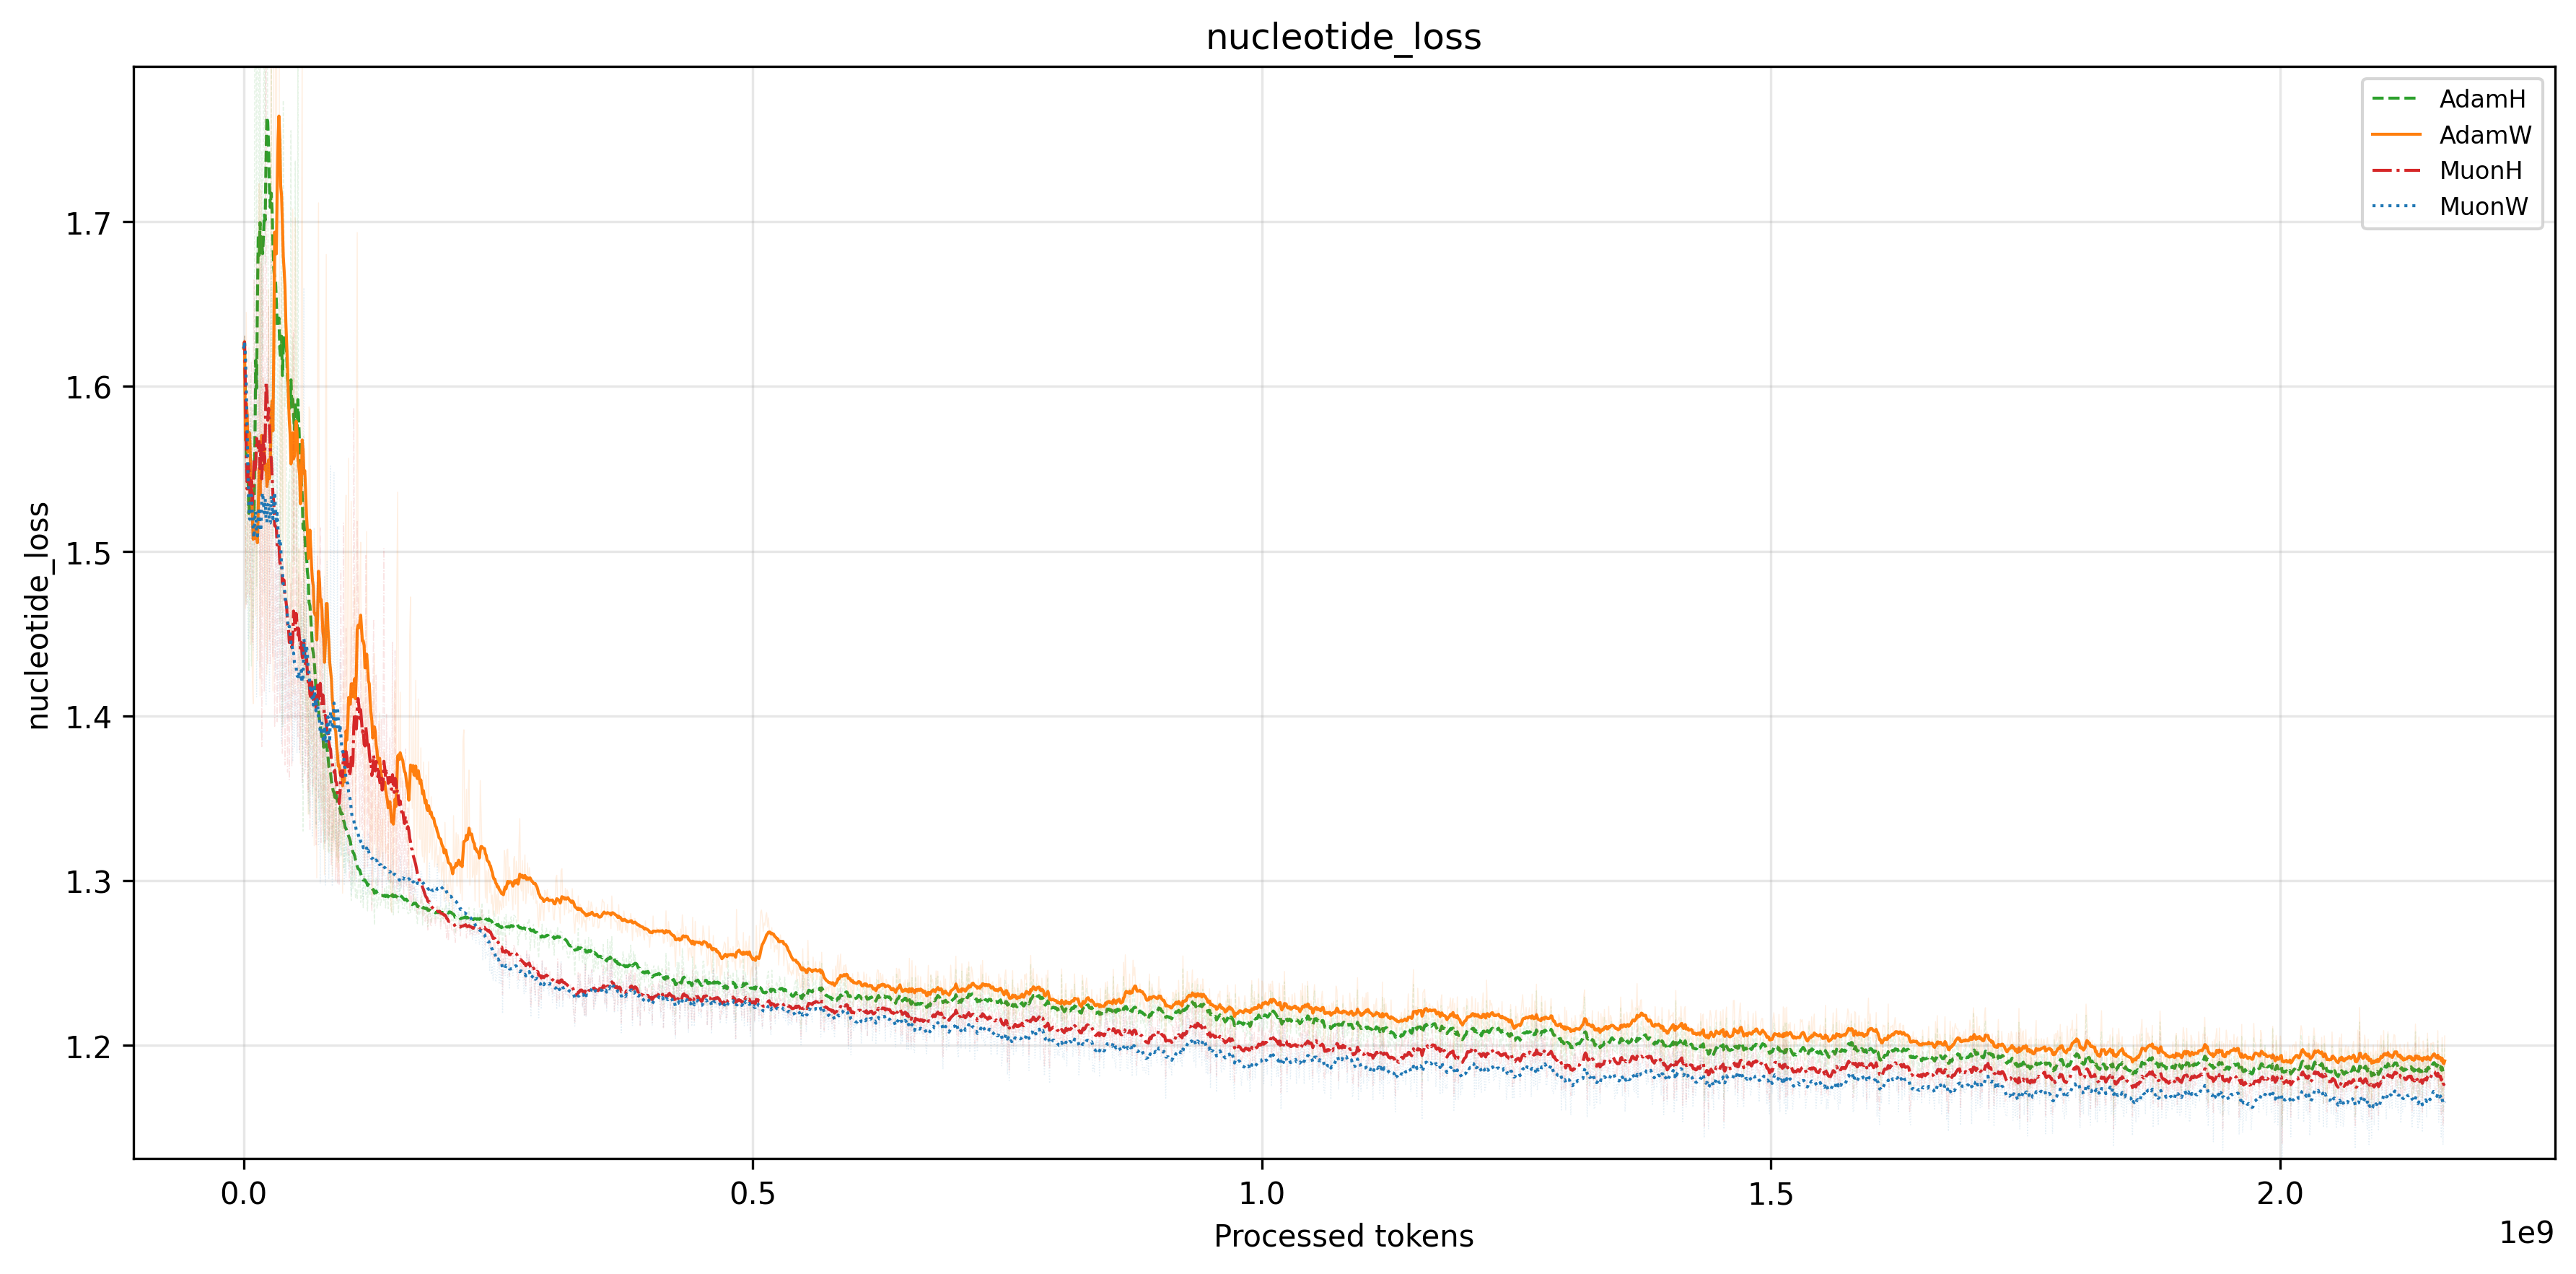
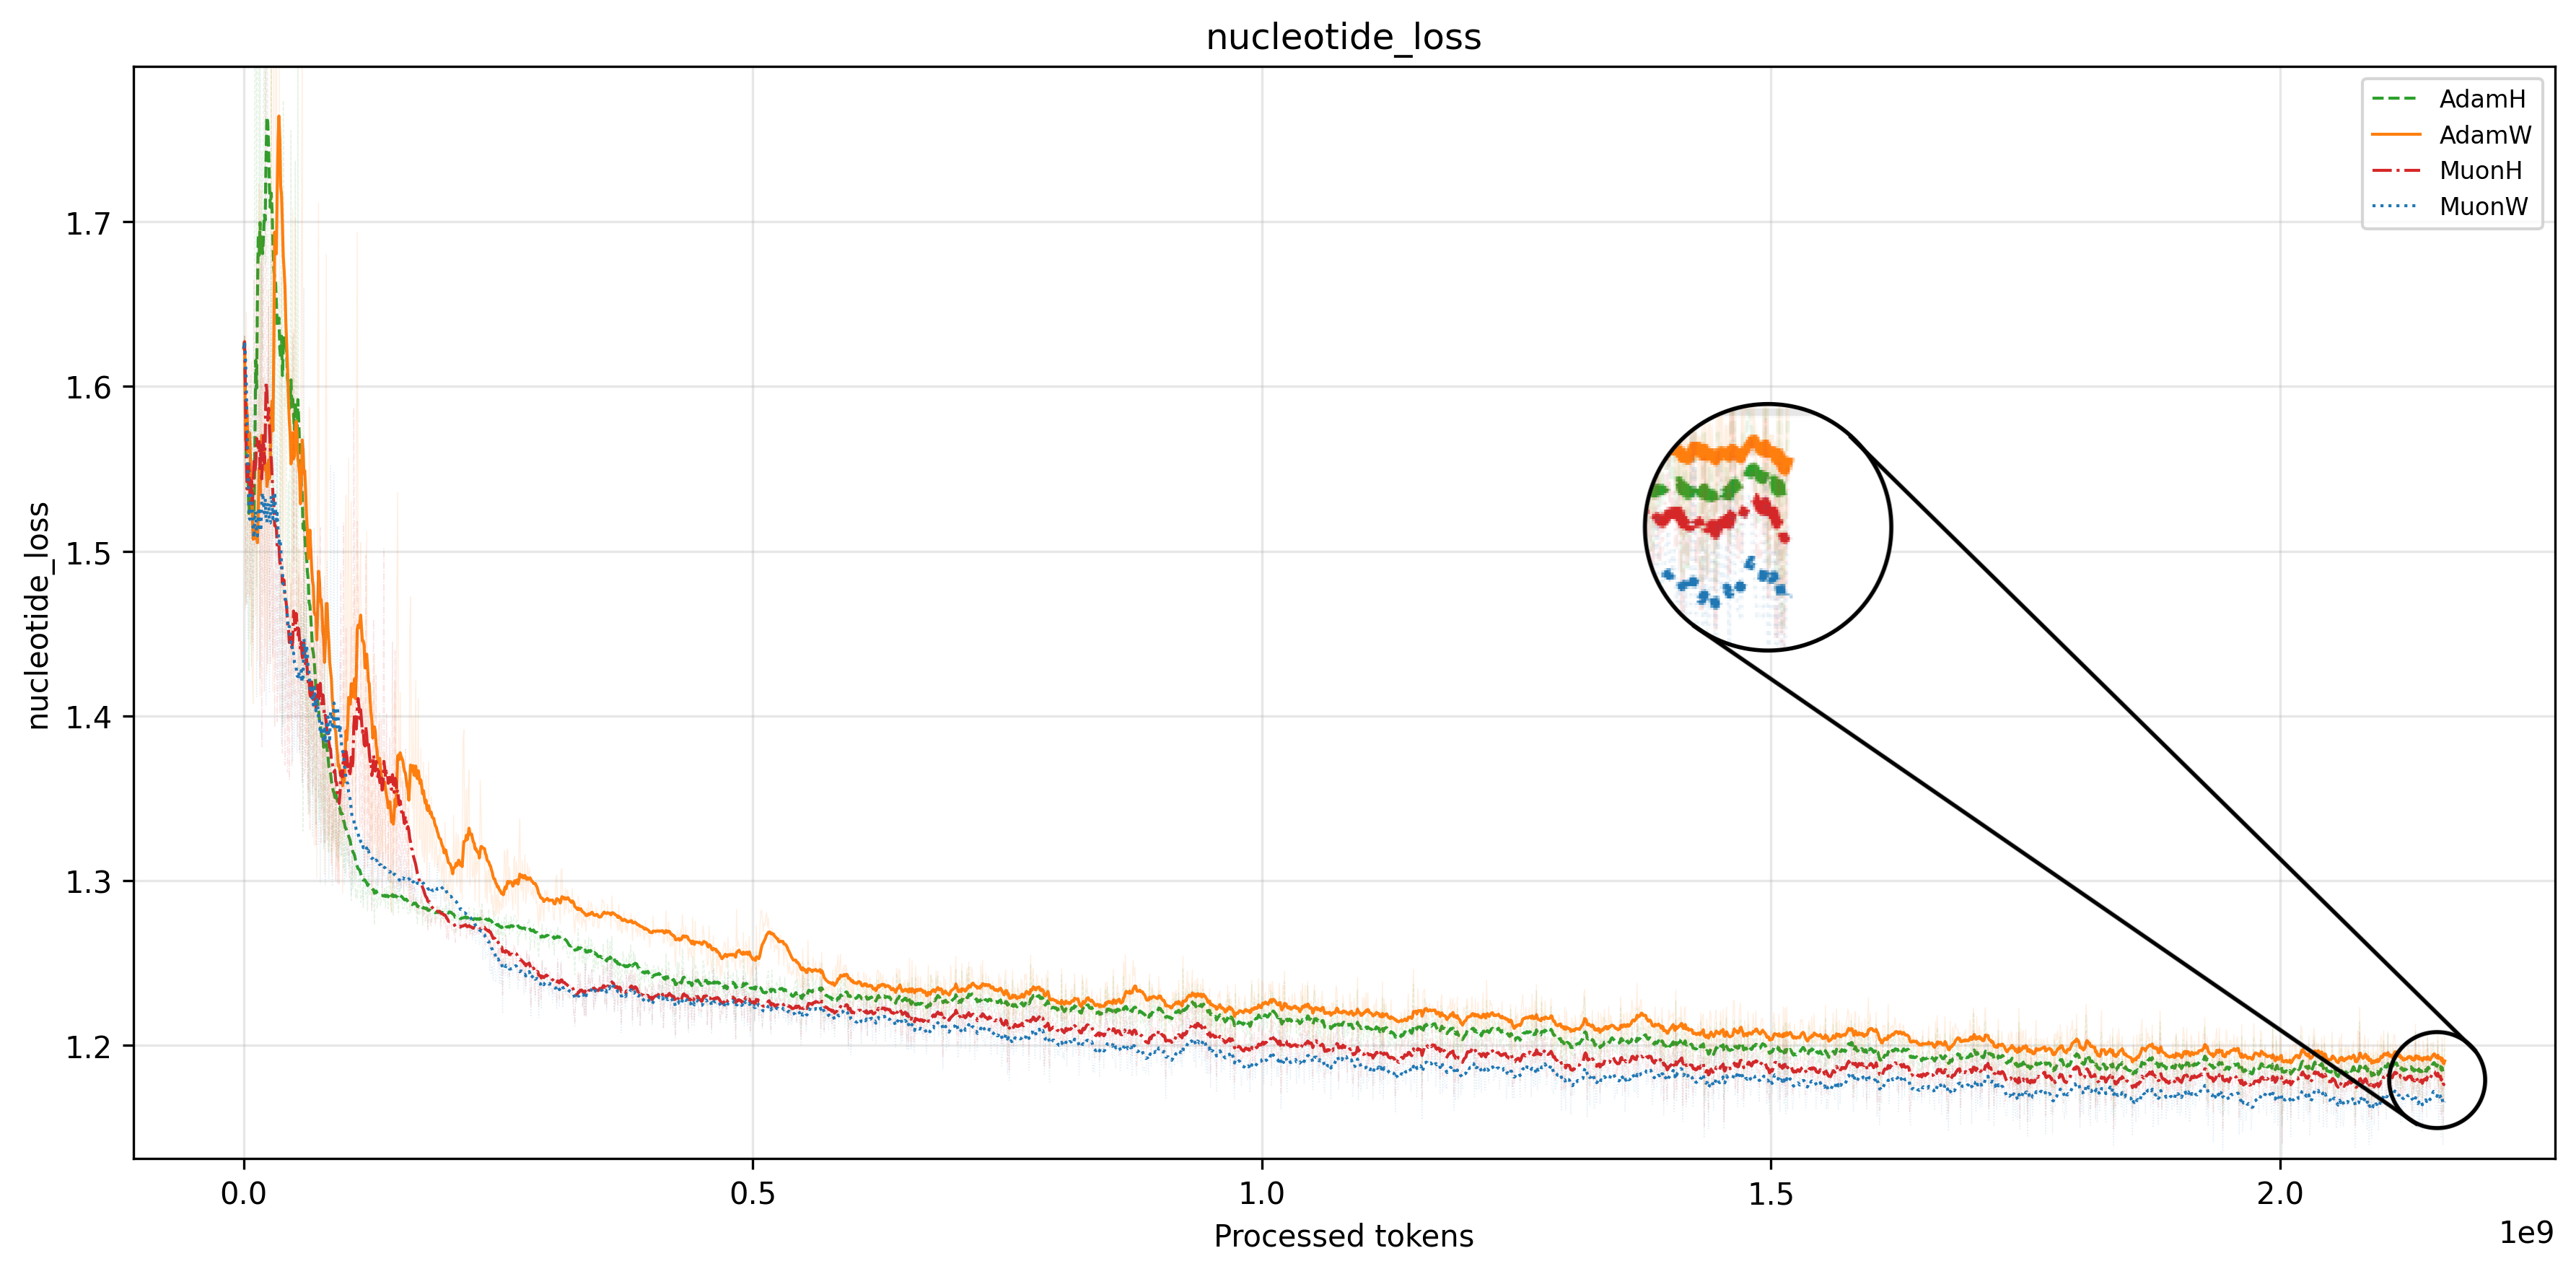
Updated pdf

diff --git a/blogs/muon/latex/main.tex b/blogs/muon/latex/main.tex
@@ -38,7 +38,7 @@
 \makeatletter
 \newcommand{\supplementarylinknote}{%
   \if@anonymous\relax\else
-    \noindent\emph{Supplementary material, including an interactive visualization, is available at \url{https://origin.bio/blogs/muon}.}%
+    \noindent\emph{Supplementary material is available in the submission package.}%
   \fi
 }
 \makeatother
@@ -46,10 +46,7 @@
 \title{Muon Reduces the Training Cost of Regulatory DNA Transformers}
 
 \author{%
-  Viraj Doshi* \\
-  \textit{*Core Contributor} \\
-  Origin Bio \\
-  \texttt{[email redacted]} \\
+  Anonymous Author(s) \\
 }
 
 \begin{document}
@@ -64,9 +61,9 @@ Gene-therapy design depends on identifying regulatory sequences that drive the r
 \label{sec:intro}
 % ============================================================
 
-Regulatory sequence choice is a central design problem in gene therapy: the same therapeutic payload can behave very differently depending on the regulatory elements that control its expression. Models trained on regulatory DNA can help narrow this design space by scoring variants, cis-regulatory elements, and candidate sequences before they enter biological testing. Systems such as AlphaGenome~\citep{alphagenome}, Enformer~\citep{enformer}, and Borzoi~\citep{borzoi} illustrate the growing role of learned sequence models in this prioritization step. The predictions made by these models sit upstream of an expensive experimental path: biological validation involves DNA synthesis, cloning, cell culture, sequencing, and functional screening. Training compute is therefore tied to the same constrained discovery pipeline rather than being an isolated modeling expense.
+Regulatory sequence choice is a central design problem in gene therapy: the same therapeutic payload can behave very differently depending on the regulatory elements that control its expression. Models trained on regulatory DNA can help narrow this design space before biological testing, and systems such as AlphaGenome~\citep{alphagenome}, Enformer~\citep{enformer}, and Borzoi~\citep{borzoi} illustrate the growing role of learned sequence models in this prioritization step. Because experimental validation is costly, training compute is tied to the same constrained discovery pipeline rather than being an isolated modeling expense.
 
-This makes optimizer choice more than an implementation detail. If one optimizer reaches the same held-out quality target with fewer FLOPs and less wall-clock time, the saved resources can support larger candidate screens, additional assays, more cell contexts, and broader follow-up validation. We study this question for regulatory DNA Transformers by comparing Adam~\citep{adam} and Muon under matched test-perplexity targets. Adam-style optimizers are widely used for genomic sequence models, but regulatory DNA differs from natural language in vocabulary size, token-frequency structure, and the biochemical grammar carried by motifs, spacing, orientation, and local sequence composition. Optimizer gains should therefore be evaluated in-domain rather than inferred from NLP. We train a Transformer model on ENCODE candidate cis-regulatory sequences while holding architecture, data, and non-optimizer hyperparameters fixed, and vary optimizer family, norm-control scheme, learning rate, and model width. We pair Adam and Muon with either independent weight decay or Hyperball, denoting Muon with independent weight decay as MuonW and Muon with Hyperball as MuonH. At the largest scale, Muon reaches Adam target quality with a median FLOP improvement of 35.4\% and a median wall-clock time improvement of 38.5\%. The comparison also shows that norm control changes the optimizer ranking: independent weight decay pairs more favorably with Muon than Hyperball in this setting. These results motivate optimizer and norm-control choice as practical levers for reducing the training cost of regulatory DNA Transformers.
+This makes optimizer choice more than an implementation detail. If one optimizer reaches the same held-out quality target with fewer FLOPs and less wall-clock time, the saved resources can support larger candidate screens, additional assays, more cell contexts, and broader follow-up validation. We compare Adam~\citep{adam} and Muon for regulatory DNA Transformers under matched test-perplexity targets, evaluating the optimizer in-domain rather than inferring gains from NLP. We train Transformer models on ENCODE candidate cis-regulatory sequences while holding architecture, data, and non-optimizer hyperparameters fixed, varying optimizer family, norm-control scheme, learning rate, and model width. We pair Adam and Muon with either independent weight decay or Hyperball, denoting Muon with independent weight decay as MuonW and Muon with Hyperball as MuonH. At the largest scale, Muon reaches Adam target quality with a median FLOP improvement of 35.4\% and a median wall-clock time improvement of 38.5\%. The comparison also shows that norm control changes the optimizer ranking: independent weight decay pairs more favorably with Muon than Hyperball in this setting. These results motivate optimizer and norm-control choice as practical levers for reducing the training cost of regulatory DNA Transformers.
 
 
 % ============================================================
@@ -92,7 +89,7 @@ Recent biological foundation-model papers have started to include Muon, but most
 
 Regulatory DNA and natural language present very different sequence-learning problems. In language, much of the modeling burden comes from representing and composing meaning across a large semantic vocabulary. Regulatory DNA instead uses a compact four-letter alphabet whose predictive structure comes from how nucleotides are arranged into biochemical sequence patterns. Regulatory signal is carried by motif identity, motif strength, spacing, orientation, local composition, and combinations of nearby motifs, rather than by the standalone identity of a token. This makes regulatory DNA a distinct distributional setting for optimization: an optimizer that performs well on natural-language corpora is not guaranteed to behave the same way when the training signal comes from regulatory sequence grammar. This study isolates that optimization question by using nucleotide cross-entropy to measure how efficiently an optimizer learns the statistical structure of regulatory DNA under matched architecture, data, and non-optimizer hyperparameters. We do not treat cross-entropy as a substitute for downstream biological evaluation on expression prediction, chromatin accessibility, or variant-effect prediction. Rather, cross-entropy probes the in-domain sequence-distribution component that such models must learn before task-specific functional heads or supervised biological readouts are added. Prior genomic foundation-model results, including Evo~2~\citep{evo2}, suggest that lower validation loss can be associated with improved zero-shot downstream performance, but our focus here is narrower: we evaluate training dynamics and compute efficiency for reaching matched regulatory-DNA perplexity targets. Whether the same optimizer and norm-control choices improve downstream biological prediction remains an important direction for future work.
 
-One concrete example of this distributional difference is the marginal token distribution. In language, token frequencies follow Zipf's law~\citep{zipf-review}: a few tokens appear extremely often, while many are rare. This creates highly uneven token-associated gradient statistics, so Adam's second moments can vary substantially across directions. Regulatory DNA is much less skewed. It has only four nucleotide tokens, and in our data their aggregate marginal frequencies across cell lines are nearly uniform (Figure~\ref{fig:nucleotide-dist}), giving the corpus-level token distribution close to maximum entropy. This does not imply that individual sequences are compositionally uniform; rather, the overall token counts are far less imbalanced than in language. This removes one major source of anisotropy present in language modeling, and suggests that Muon may not see the same convergence gains on regulatory DNA as it does on natural-language corpora (Appendix~\ref{app:gradient-stats}).
+One concrete example of this distributional difference is the marginal token distribution. In language, token frequencies follow Zipf's law~\citep{zipf-review}: a few tokens appear extremely often, while many are rare (Figure~\ref{fig:zipf}). This creates highly uneven token-associated gradient statistics, so Adam's second moments can vary substantially across directions. Regulatory DNA is much less skewed. It has only four nucleotide tokens, and in our data their aggregate marginal frequencies across cell lines are nearly uniform (Figure~\ref{fig:nucleotide-dist}), giving the corpus-level token distribution close to maximum entropy. This does not imply that individual sequences are compositionally uniform; rather, the overall token counts are far less imbalanced than in language. This removes one major source of anisotropy present in language modeling, and suggests that Muon may not see the same convergence gains on regulatory DNA as it does on natural-language corpora (Appendix~\ref{app:gradient-stats}).
 
 % ============================================================
 \section{Weight Regularization}
@@ -123,7 +120,7 @@ This construction can be wrapped around any optimizer update, so it works with A
 
 \medskip
 
-The useful takeaway is that Hyperball makes the learning rate an approximate relative-step-size dial. Hyperball fixes $\|W_t\|=R$, sets $\|U_t\|=\eta R$, and then retracts $W_t+U_t$ back to the radius-$R$ sphere. If $\gamma$ is the cosine similarity between $W_t$ and $U_t$, in the small-learning-rate regime, this simplifies to $\|\Delta W\|/\|W_t\|\approx \eta\sqrt{1-\gamma^2}$, which becomes $\approx\eta$ when the update is nearly orthogonal to the current weights (Appendix~\ref{app:derivation}).
+The useful takeaway is that Hyperball makes the learning rate an approximate relative-step-size dial. Hyperball fixes $\|W_t\|=R$, sets $\|U_t\|=\eta R$, and then retracts $W_t+U_t$ back to the radius-$R$ sphere. If $\gamma$ is the cosine similarity between $W_t$ and $U_t$, in the small-learning-rate regime, this simplifies to $\|\Delta W\|/\|W_t\|\approx \eta\sqrt{1-\gamma^2}$, which becomes $\approx\eta$ when the update is nearly orthogonal to the current weights (Appendix~\ref{app:derivation}); a corresponding bound is given in Appendix~\ref{app:bounds}.
 
 \paragraph{Relative step size of weight decay.} Under weight decay, by contrast, the relative step size depends on the learning rate, decay coefficient, optimizer state, momentum coefficients, and training time~\citep{wdeq,hyperball,wdnorm}; Hyperball removes most of that coupling by fixing $\|W_t\|=R$ and $\|U_t\|=\eta R$. In our runs, MuonW's relative step size decreases as $\|W_t\|$ grows, while MuonH remains flatter at the level set by $\eta$ (Figures~\ref{fig:dynamics-stepsize} and~\ref{fig:dynamics-norms}).
 
@@ -133,11 +130,11 @@ The useful takeaway is that Hyperball makes the learning rate an approximate rel
 \label{sec:experimental-setup}
 % ============================================================
 
-To isolate the effect of the optimizer, we hold the architecture family, dataset, processed-token budget, input pipeline, output heads, and all non-optimizer hyperparameters constant across runs, varying only optimizer family, norm-control scheme, learning rate, and model width. We fix the weight decay rate to $10^{-5}$ across all experiments. We train a Transformer model on candidate cis-regulatory elements (cCREs) over 20 epochs of the ENCODE v4 registry~\citep{encode-v4} that are specific to one of eight cell lines (see Appendix~\ref{app:data}). We use three model widths: hs512, hs1024, and hs2048, corresponding to approximately 26M, 105M, and 420M parameters. These runs were executed on 8-GPU nodes using NVIDIA H100s. We tokenize at single-nucleotide resolution and train with a masked language modeling (MLM) objective. The nucleotide head supplies the held-out CE-loss and perplexity metric, while the modality head supplies an auxiliary DNase-seq prediction objective using a factorized Poisson and multinomial loss.
+To isolate optimizer effects, we hold the architecture family, dataset, processed-token budget, input pipeline, output heads, and all non-optimizer hyperparameters constant, varying only optimizer family, norm-control scheme, learning rate, and model width. We fix weight decay to $10^{-5}$ and train a Transformer for 20 epochs on candidate cis-regulatory elements (cCREs) from the ENCODE v4 registry~\citep{encode-v4} specific to one of eight cell lines (see Appendix~\ref{app:data}). The eight-cell-line subset is small enough that training necessarily revisits the same examples across epochs, but large enough that each epoch still contains many distinct regulatory sequences. This keeps the comparison compute-bounded rather than data-bounded: optimizer differences are measured by how efficiently each method uses a fixed data distribution over repeated passes, rather than by exposing some runs to more unique examples. We test three model widths: hs512, hs1024, and hs2048, corresponding to approximately 26M, 105M, and 420M parameters. Runs used 8-GPU NVIDIA H100 nodes. We tokenize at single-nucleotide resolution and train with a masked language modeling (MLM) objective. The nucleotide head supplies the held-out CE-loss and perplexity metric, while the modality head supplies an auxiliary DNase-seq prediction objective using a factorized Poisson and multinomial loss. Figure~\ref{fig:experimental-setup} summarizes the model and training objectives.
 
 \begin{figure}[htbp]
   \centering
-  \makebox[\linewidth][c]{\resizebox{1.15\linewidth}{!}{%
+  \resizebox{\linewidth}{!}{%
   \begin{tikzpicture}[
     node distance=0.75cm and 1.0cm,
     box/.style={draw, align=center, minimum height=1.05cm, inner xsep=11pt, inner ysep=8pt, font=\normalsize},
@@ -172,7 +169,7 @@ To isolate the effect of the optimizer, we hold the architecture family, dataset
     \draw[arrow] (mlm) -- (ce);
     \draw[arrow] (modality) -- (dnase);
   \end{tikzpicture}%
-  }}
+  }
   \caption{Model Architecture.}
   \label{fig:experimental-setup}
 \end{figure}
@@ -196,7 +193,7 @@ To isolate the effect of the optimizer, we hold the architecture family, dataset
     \includegraphics[width=\linewidth]{images/perplexity_best_family_wall_clock_largest_scale.png}
     \caption*{Best family progression by wall-clock time}
   \end{subfigure}
-  \caption{Largest-scale family-level progression efficiency.\protect}
+  \caption{Largest-scale family-level progression efficiency.}
   \label{fig:family-progressions}
 \end{figure}
 
@@ -243,7 +240,7 @@ Figure~\ref{fig:scale-advantages} summarizes the matched-target comparison acros
 Figure~\ref{fig:final-perplexity} gives an optimizer-level view at the largest scale, using the run with the lowest final EMA perplexity for each optimizer variant; the EMA values used for this selection are tabulated in Appendix~\ref{app:ema-perplexity}. This complements the matched-target wall-clock analysis above by showing mean test perplexity as a function of training FLOPs. The curves separate clearly: SGD remains well above the Adam and Muon variants, Adam improves steadily, and the best Muon configuration reaches its lowest perplexity on a smaller compute and wall-clock budget. The selected Muon run uses lr $2.27 \times 10^{-2}$, almost an order of magnitude larger than the lr $5.69 \times 10^{-3}$ for the strongest Adam run, suggesting that Muon's update structure is associated with a larger stable effective step size in this sweep, consistent with faster progress toward the same held-out perplexity target.
 
 
-\subsection{Independent weight decay is more favourable for Muon than Hyperball}
+\subsection{Independent weight decay is more favorable for Muon than Hyperball}
 \label{sec:norm-control-ranking}
 
 Hyperball does not uniformly improve both optimizers, and MuonW is the strongest configuration in the present sweep. One hypothesis is that Muon's raw updates are associated with higher-entropy normalized spectra, while Hyperball changes the resulting trajectory by projecting both $U_t$ and $W_t+U_t$ back to fixed Frobenius radii. These Frobenius-norm constraints control the total update and post-update norms, but they do not directly optimize Spectral Entropy (Section~\ref{sec:spectral}). In this sweep, they coincide with lower-entropy spectra for Muon, partially counteracting Muon's orthogonalizing effect. Section~\ref{sec:spectral} tests this hypothesis spectrally.
@@ -254,23 +251,23 @@ Hyperball does not uniformly improve both optimizers, and MuonW is the strongest
 
 \begin{figure}[htbp]
   \centering
-  \makebox[\linewidth][c]{\includegraphics[width=1.06\linewidth]{images/adam_comparison.png}}
+  \includegraphics[width=\linewidth]{images/adam_comparison.png}
   \caption{AdamW--AdamH training-loss sweep.}
   \label{fig:sweep-losses-adam}
 \end{figure}
 
-The matched-target results show that Muon reaches lower held-out perplexity levels with less compute and time, but they do not explain the source of this advantage. To probe the mechanism associated with this advantage, we analyze training-loss sweeps for the within-optimizer norm-control comparisons in Figures~\ref{fig:sweep-losses-adam} and~\ref{fig:sweep-losses-muon}, with aggregate learning curves for the perplexity-selected runs in Figure~\ref{fig:loss-curves}.
+The matched-target results show that Muon reaches lower held-out perplexity levels with less compute and time, but they do not explain the source of this advantage. To probe the mechanism associated with this advantage, we analyze training-loss sweeps for the within-optimizer norm-control comparisons in Figures~\ref{fig:sweep-losses-adam} and~\ref{fig:sweep-losses-muon}, the strongest cross-optimizer comparison in Figure~\ref{fig:muonw-adamh-sweep-loss}, and aggregate learning curves for the perplexity-selected runs in Figure~\ref{fig:loss-curves}.
 
 \begin{figure}[htbp]
   \centering
-  \makebox[\linewidth][c]{\includegraphics[width=1.06\linewidth]{images/muon_comparison.png}}
+  \includegraphics[width=\linewidth]{images/muon_comparison.png}
   \caption{MuonW--MuonH training-loss sweep.}
   \label{fig:sweep-losses-muon}
 \end{figure}
 
 \begin{figure}[htbp]
   \centering
-  \makebox[\linewidth][c]{\includegraphics[width=1.06\linewidth]{images/muonw_adamh_comparison.png}}
+  \includegraphics[width=\linewidth]{images/muonw_adamh_comparison.png}
   \caption{MuonW--AdamH training-loss sweep.}
   \label{fig:muonw-adamh-sweep-loss}
 \end{figure}
@@ -364,7 +361,7 @@ The Hyperball retraction maps $W_t + U_t$ back onto the hypersphere of radius $R
 \label{fig:retraction-geometry}
 \end{figure}
 
-The figure shows the 2D cross-section used for the derivation, with the relevant lengths and angles labeled.
+Figure~\ref{fig:retraction-geometry} shows the 2D cross-section used for the derivation, with the relevant lengths and angles labeled.
 
 We now derive the exact step size. Using the cosine rule on triangle $O$-$A$-$B$ (where $O$ is the origin, $A = W_t$, and $B = W_t + U_t$), noting that the interior angle at $A$ is $\pi - \theta$:
 
@@ -707,27 +704,6 @@ The optimizer-level progression in Figure~\ref{fig:final-perplexity} selects one
   \end{subfigure}
   \caption{Nucleotide frequencies. The panels show nucleotide frequencies across three random cell lines in our training set.}
   \label{fig:nucleotide-dist}
-\end{figure}
-
-\begin{figure}[htbp]
-  \centering
-  \makebox[\linewidth][c]{\includegraphics[width=1.12\linewidth]{images/adam_heatmap.png}}
-  \caption{Heatmap: AdamW vs AdamH.}
-  \label{fig:heatmap-adam}
-\end{figure}
-
-\begin{figure}[htbp]
-  \centering
-  \makebox[\linewidth][c]{\includegraphics[width=1.12\linewidth]{images/muon_heatmap.png}}
-  \caption{Heatmap: MuonW vs MuonH.}
-  \label{fig:heatmap-muon}
-\end{figure}
-
-\begin{figure}[htbp]
-  \centering
-  \makebox[\linewidth][c]{\includegraphics[width=1.12\linewidth]{images/muonw_adamh_heatmap.png}}
-  \caption{MuonW--AdamH advantage heatmap. Green indicates AdamH better, and red indicates MuonW better.}
-  \label{fig:cross-optimizer-heatmap}
 \end{figure}
 
 \begin{figure}[htbp]